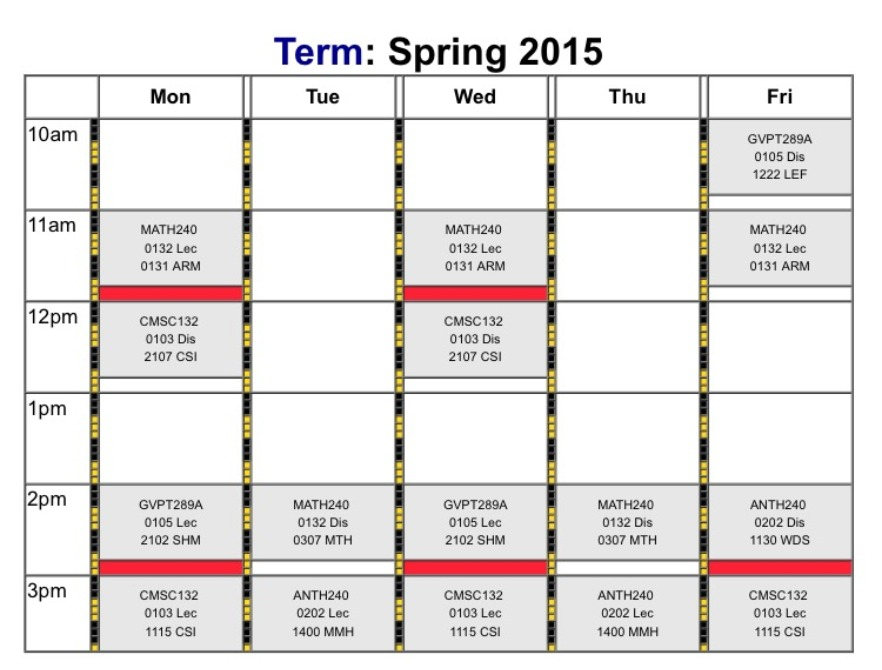
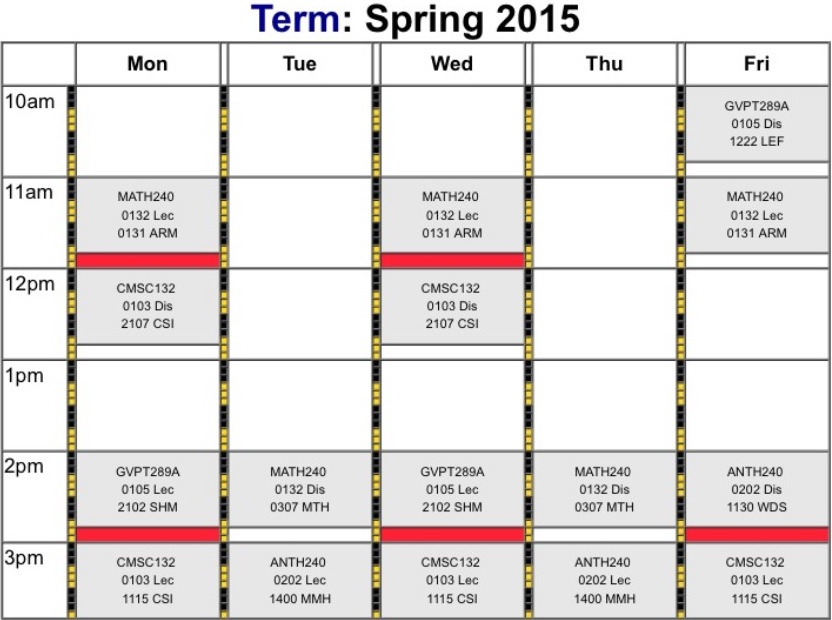
Walkthrough section

diff --git a/MeteorApp/client/S_Layouts/index.html b/MeteorApp/client/S_Layouts/index.html
@@ -19,6 +19,8 @@
   <meta name="msapplication-TileImage" content="/images/favicons/mstile-144x144.png?v=1">
   <meta name="msapplication-config" content="/images/favicons/browserconfig.xml">
 
+  <link href='https://fonts.googleapis.com/css?family=PT+Sans:400,700' rel='stylesheet' type='text/css'>
+
   <!-- Set to Paper, but replace with whatever works best -->
   <!-- Source: https://bootswatch.com/paper/ -->
   <!-- <link href="https://maxcdn.bootstrapcdn.com/bootswatch/latest/paper/bootstrap.min.css" rel="stylesheet"> -->
